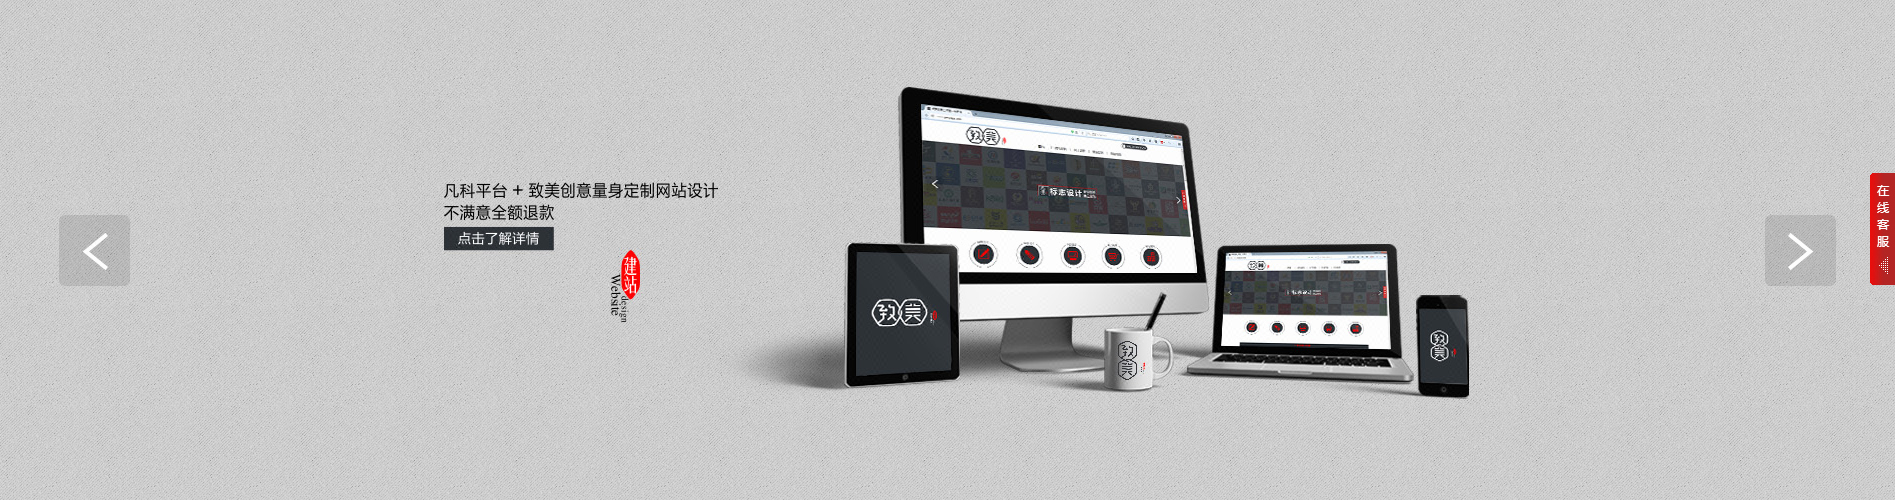
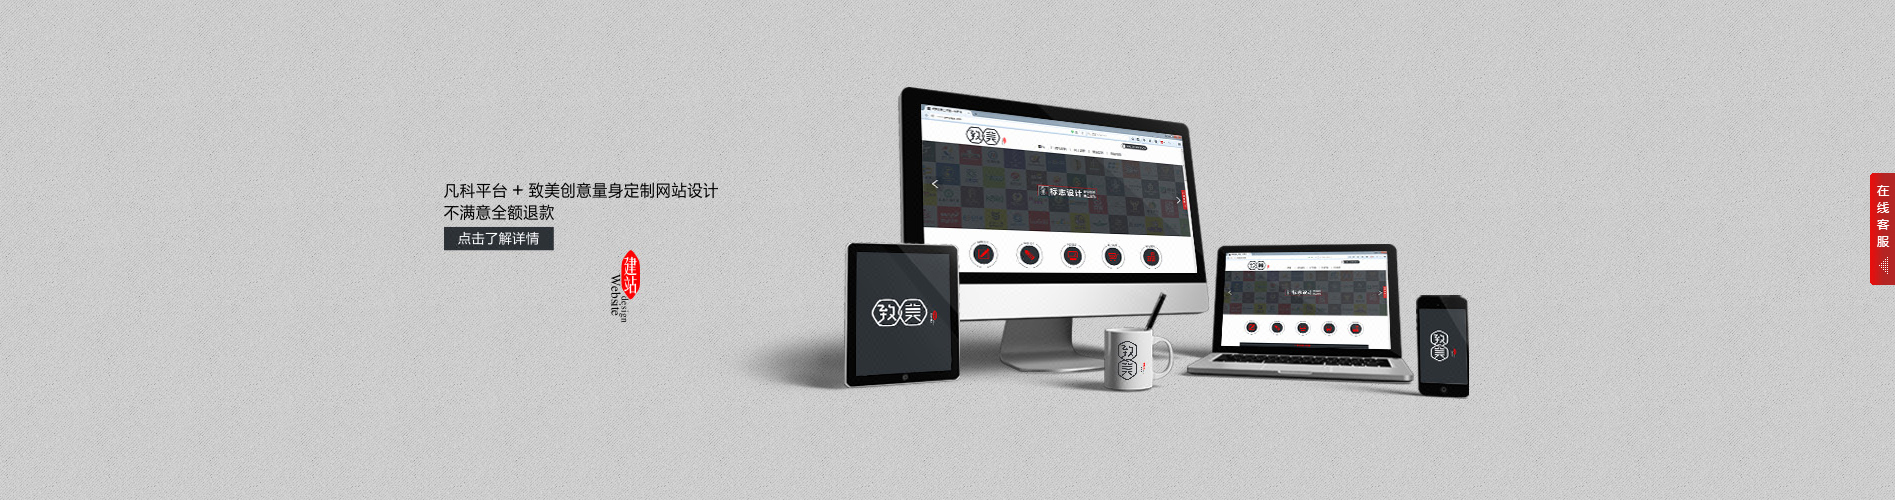
致美创意网站更新

Changed region(s): [[0.0311, 0.42, 0.0934, 0.57], [0.934, 0.42, 0.9652, 0.57]]

diff --git a/仿致美创意网站/css/index.css b/仿致美创意网站/css/index.css
@@ -1,3 +1,7 @@
+@media screen and (max-width: 1040px){
+    p{font-size: 12px;}
+    a{font-size: 12px;}
+}
 *{
     margin: 0;
     padding: 0;
@@ -6,9 +10,10 @@
 }
 header{
     width: 1040px;
+    min-width: 1040px;
     height: 120px;
     margin: 0 auto;
-    background: url("image/致美.jpg")  no-repeat;
+    background: url("../image/致美.jpg")  no-repeat;
     position: relative;
 
 
@@ -23,10 +28,11 @@ header>a{
     display: block;
     text-align: center;
     line-height: 45px;
-    background: #2d3236 url("image/callout.png") no-repeat left 11px top 10px;
-    background-size: 24px;
+    background: #2d3236 url("../image/时钟.png") no-repeat left 11px top 10px;
+    background-size: 27px;
     color: #ffffff;
     margin-right: 20px;
+    transition: background-color 0.5s linear;
 }
 header>a:hover{
     background-color: #fe0000;
@@ -41,7 +47,6 @@ header ul li{
     font-size: 14px;
     padding: 0 25px;
     border-right: 1px solid #000000;
-
 }
 header ul li>a{
     color: #666666;
@@ -57,11 +62,54 @@ header ul li:nth-child(6){
     padding-right: 20px;
 }
 
+#ad{
+    position: relative;
+    height: 400px;
+    display: flex;
+    align-items: center;
+    min-width: 1040px;
+    min-height: 400px;
+}
 
-#ad img{
+#ad .img_box img{
     width: 100%;
     display: block;
-    min-width: 1040px;
+    min-height: 400px;
+
+}
+#ad .img_box{
+    width: 100%;
+    height: 400px;
+    position: absolute;
+    overflow: hidden;
+
+
+}
+
+#ad .btn_box{
+    position: absolute;
+    display: flex;
+    justify-content: space-between;
+    width: 100%;
+
+
+}
+#ad .btn_box a{
+    display: block;
+    width: 60px;
+    height: 60px;
+    border: 1px solid;
+    margin: 0 50px;
+    background-color: rgba(0,0,0,0.2);
+    color: #ffffff;
+    line-height: 50px;
+    border-radius: 5px;
+    text-align: center;
+    font-size: 50px;
+    transition: background-color 0.5s linear;
+}
+#ad .btn_box a:hover{
+    background-color: rgba(0,0,0,0.7);
 }
 
 #link{
@@ -84,6 +132,7 @@ header ul li:nth-child(6){
     width: 100%;
     height: 610px;
     background: #dbdbdb;
+    min-width: 1040px;
 }
 
 #case_content{
@@ -107,6 +156,9 @@ header ul li:nth-child(6){
 }
 .case_one p:nth-child(2) span{
     color: #000000;
+}
+#case #case_content .case_two div>a:hover{
+    background: #fe0000;
 }
 
 #case_content .case_two div>img{
@@ -150,6 +202,7 @@ header ul li:nth-child(6){
     width: 100%;
     height: 516px;
     background: #f2f2f2;
+    min-width: 1040px;
 }
 #about_back #about{
     width: 1040px;
@@ -194,7 +247,7 @@ header ul li:nth-child(6){
 }
 .about_two div:nth-child(1){
     width: 1040px;
-    background: url("image/zhimei.jpg") right bottom no-repeat;
+    background: url("../image/zhimei.jpg") right bottom no-repeat;
 }
 .about_two div p{
     text-align: center;
@@ -209,6 +262,7 @@ header ul li:nth-child(6){
 
 #service{
     height: 307px;
+    min-width: 1040px;
 }
 #service p{
     text-align: center;
@@ -232,19 +286,19 @@ header ul li:nth-child(6){
     padding-left:30px;
 }
 #service ul li:nth-child(1){
-    background: url("image/Call-h.png") no-repeat;
+    background: url("../image/Call-h.png") no-repeat;
     background-size: 26px;
 }
 #service ul li:nth-child(3){
-    background: url("image/money.png") no-repeat;
+    background: url("../image/money.png") no-repeat;
     background-size: 26px;
 }
 #service ul li:nth-child(5){
-    background: url("image/gongju.png") no-repeat;
+    background: url("../image/gongju.png") no-repeat;
     background-size: 26px;
 }
 #service ul li:nth-child(7){
-    background: url("image/wancheng.png") no-repeat;
+    background: url("../image/wancheng.png") no-repeat;
     background-size: 26px;
 }
 #service ul li:nth-child(even){
@@ -252,10 +306,18 @@ header ul li:nth-child(6){
     padding-left: 0;
     margin: 0  10px;
 }
+#service .qq{
+    color: #fe0000;
+    transition: background-color 0.5s linear;
+}
+#service .qq:hover{
+    background-color: #666666;
+}
 footer{
     background: #2d3236;
     height: 200px;
     overflow: hidden;
+    min-width: 1040px;
 }
 footer p{
     text-align: center;

diff --git a/仿致美创意网站/index.html b/仿致美创意网站/index.html
@@ -2,13 +2,16 @@
 <html lang="en">
 <head>
     <meta charset="UTF-8">
+    <meta name="viewport" content="width=device-width, initial-scale=1.0, maximum-scale=1.0, user-scalable=0">
     <title>致美创意</title>
+    <script type="text/javascript" src="js/js.js">
 
-    <link rel="stylesheet" type="text/css" href="index.css">
+    </script>
+    <link rel="stylesheet" type="text/css" href="css/index.css">
 </head>
 <body>
     <header>
-        <a href="#">186 7038 9670</a>
+        <a href="#" id="sa"></a>
         <ul>
             <li><a href="#">首页</a></li>
             <li><a href="#">成功案例</a></li>
@@ -19,14 +22,22 @@
         </ul>
     </header>
     <div id="ad">
-        <img src="image/致美AD.jpg">
+        <div class="img_box">
+            <img id = "p1" src="image/致美AD.jpg">
+            <img id = "p2" src="image/致美AD2.jpg">
+
+        </div>
+        <div class="btn_box">
+            <a href="#p1"><</a>
+             <a href="#p2">></a>
+        </div>
     </div>
     <div id="link" >
-        <a href="#"><img src="image/link01.png"></a>
-        <a href="#"><img src="image/link02.png"></a>
-        <a href="#"><img src="image/link03.png"></a>
-        <a href="#"><img src="image/link04.png"></a>
-        <a href="#"><img src="image/link05.png"></a>
+        <a href="#" title="品牌设计"><img src="image/link01.png"></a>
+        <a href="#" title="平面设计"><img src="image/link02.png"></a>
+        <a href="#" title="网页设计"><img src="image/link03.png"></a>
+        <a href="#" title="电子商城"><img src="image/link04.png"></a>
+        <a href="#" title="空间/建筑"><img src="image/link05.png"></a>
     </div>
 
     <div id="case">
@@ -41,26 +52,26 @@
             <div class="case_two">
                 <div>
                     <img src="image/case1.jpg">
-                    <a href="#">品牌设计</a>
+                    <a href="#" title="品牌设计">品牌设计</a>
                 </div>
                 <div>
                     <img src="image/case2.jpg">
-                    <a href="#">平面设计</a>
+                    <a href="#" title="平面设计">平面设计</a>
                 </div>
                 <div>
                     <img src="image/case3.jpg">
-                    <a href="#">网页设计</a>
+                    <a href="#" title="网页设计">网页设计</a>
 
                 </div>
                 <div>
 
                     <img src="image/case4.jpg">
-                    <a href="#">电子商城</a>
+                    <a href="#" title="电子商城">电子商城</a>
                 </div>
                 <div>
 
                     <img src="image/case5.jpg">
-                    <a href="#">空间/建筑</a>
+                    <a href="#" title="控件/建筑">空间/建筑</a>
                 </div>
             </div>
         </div>
@@ -98,7 +109,7 @@
             <span>PROCESS</span>
         </p>
         <ul>
-            <li>项目洽谈&nbsp;&nbsp;<a href="#">QQ交谈</a>，根据需求报价</li>
+            <li>项目洽谈&nbsp;&nbsp;<a href="#" class="qq" onclick="sconfirm('是否打开Tim')">QQ交谈</a>，根据需求报价</li>
             <li>➡</li>
             <li>预付定金，开始设计</li>
             <li>➡</li>
@@ -108,7 +119,7 @@
         </ul>
     </div>
 <footer>
-    <p>湖南省长沙市雨花区迎新路868号德斯勤城市广场A6-1310 Copyright&nbsp;&copy;&nbsp;2014-2017&nbsp;致美创意工作室</p>
+    <p>安徽省淮南市田家庵区迎新路868号大舜广场A6-1310 Copyright&nbsp;&copy;&nbsp;2019-2020&nbsp;H5学期综合测试</p>
 </footer>
 </body>
 </html>

diff --git a/仿致美创意网站/js/js.js b/仿致美创意网站/js/js.js
@@ -1,0 +1,27 @@
+
+    function sconfirm(str){
+        var r = confirm(str);
+        console.log(r+"123");
+
+        if (r == true)
+            alert("未找到TIM，请安装最新版TIM");
+    }
+
+
+    window.onload = function () {
+        var sa = document.getElementById("sa");
+        setInterval(function () {
+            var date = new Date();
+            var hh = date.getHours();
+            var mm = date.getMinutes();
+            if(mm<10){
+                mm = "0"+String(mm);
+            }
+            var ss = date.getSeconds();
+            sa.innerText = hh+":"+mm+":"+ss;
+        },1000);
+
+
+    }
+
+
